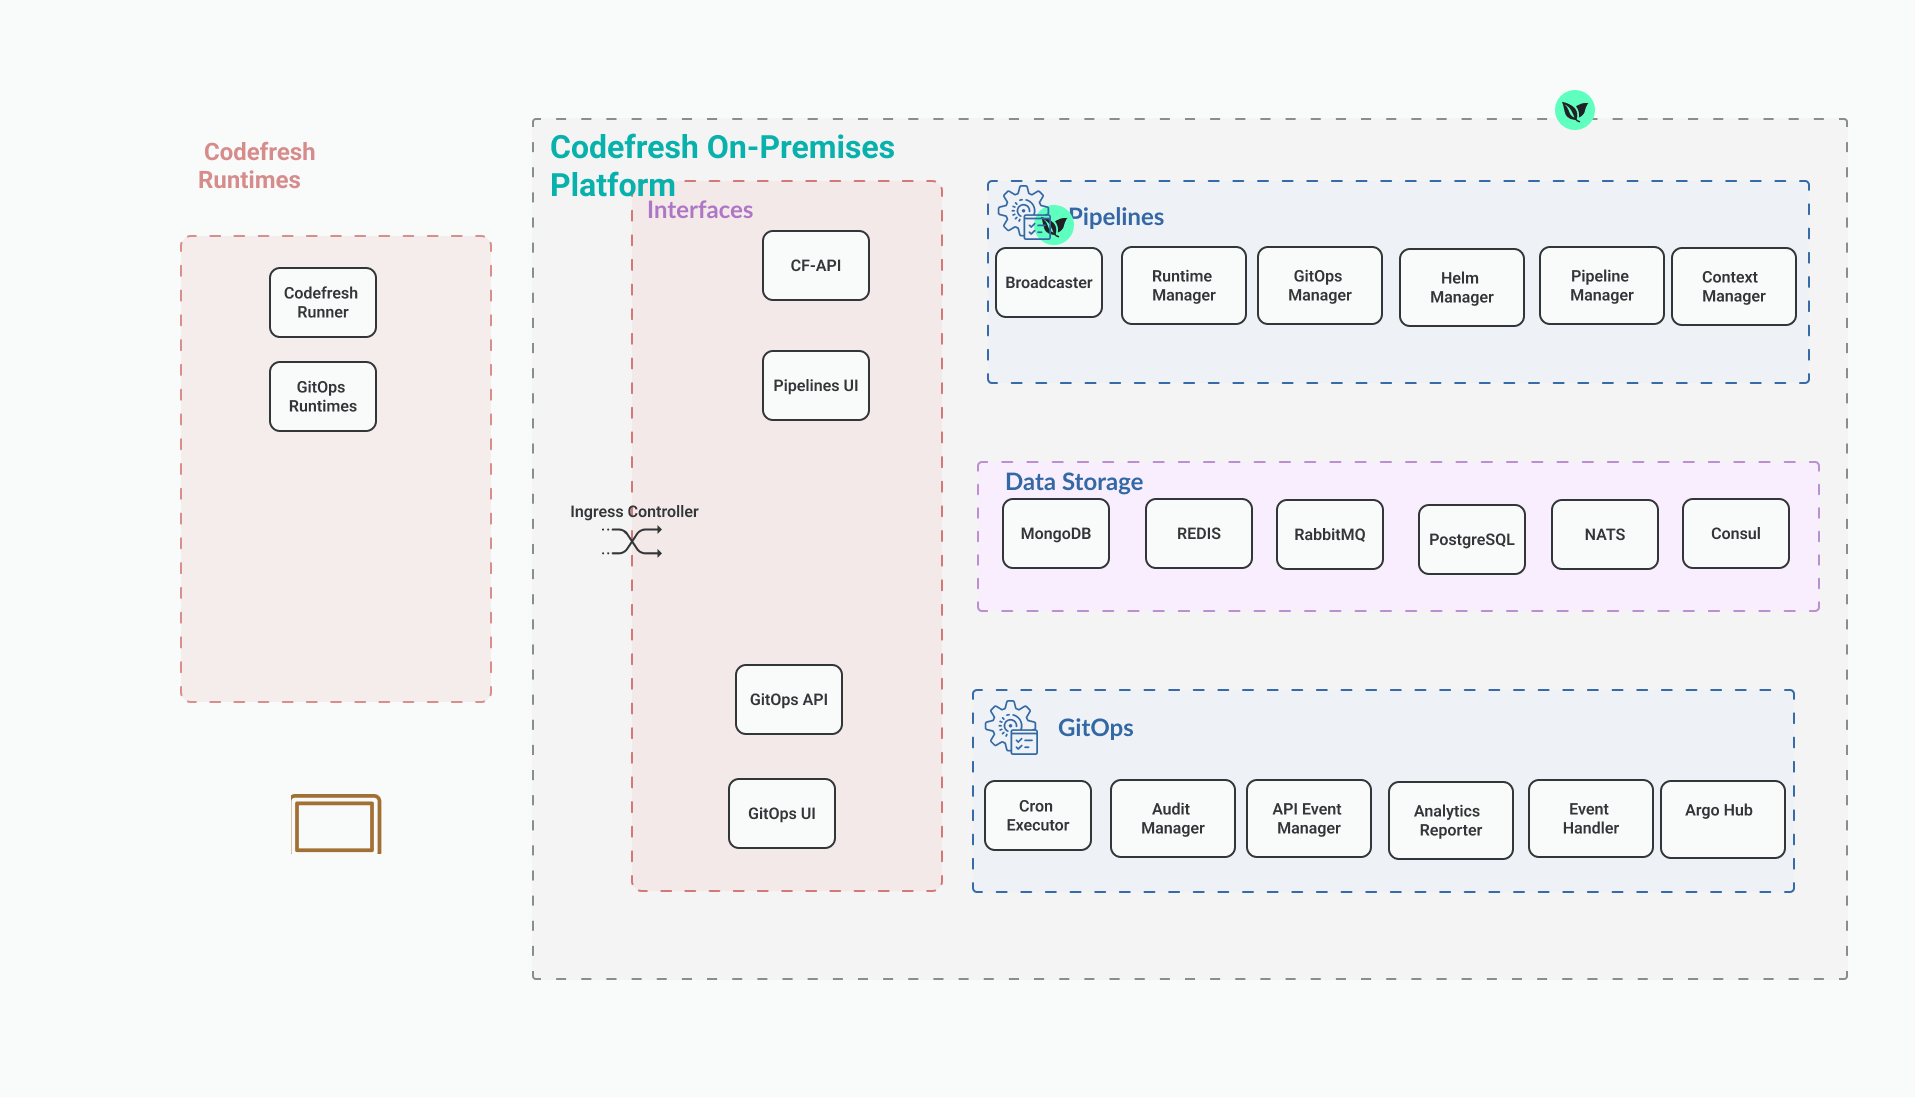
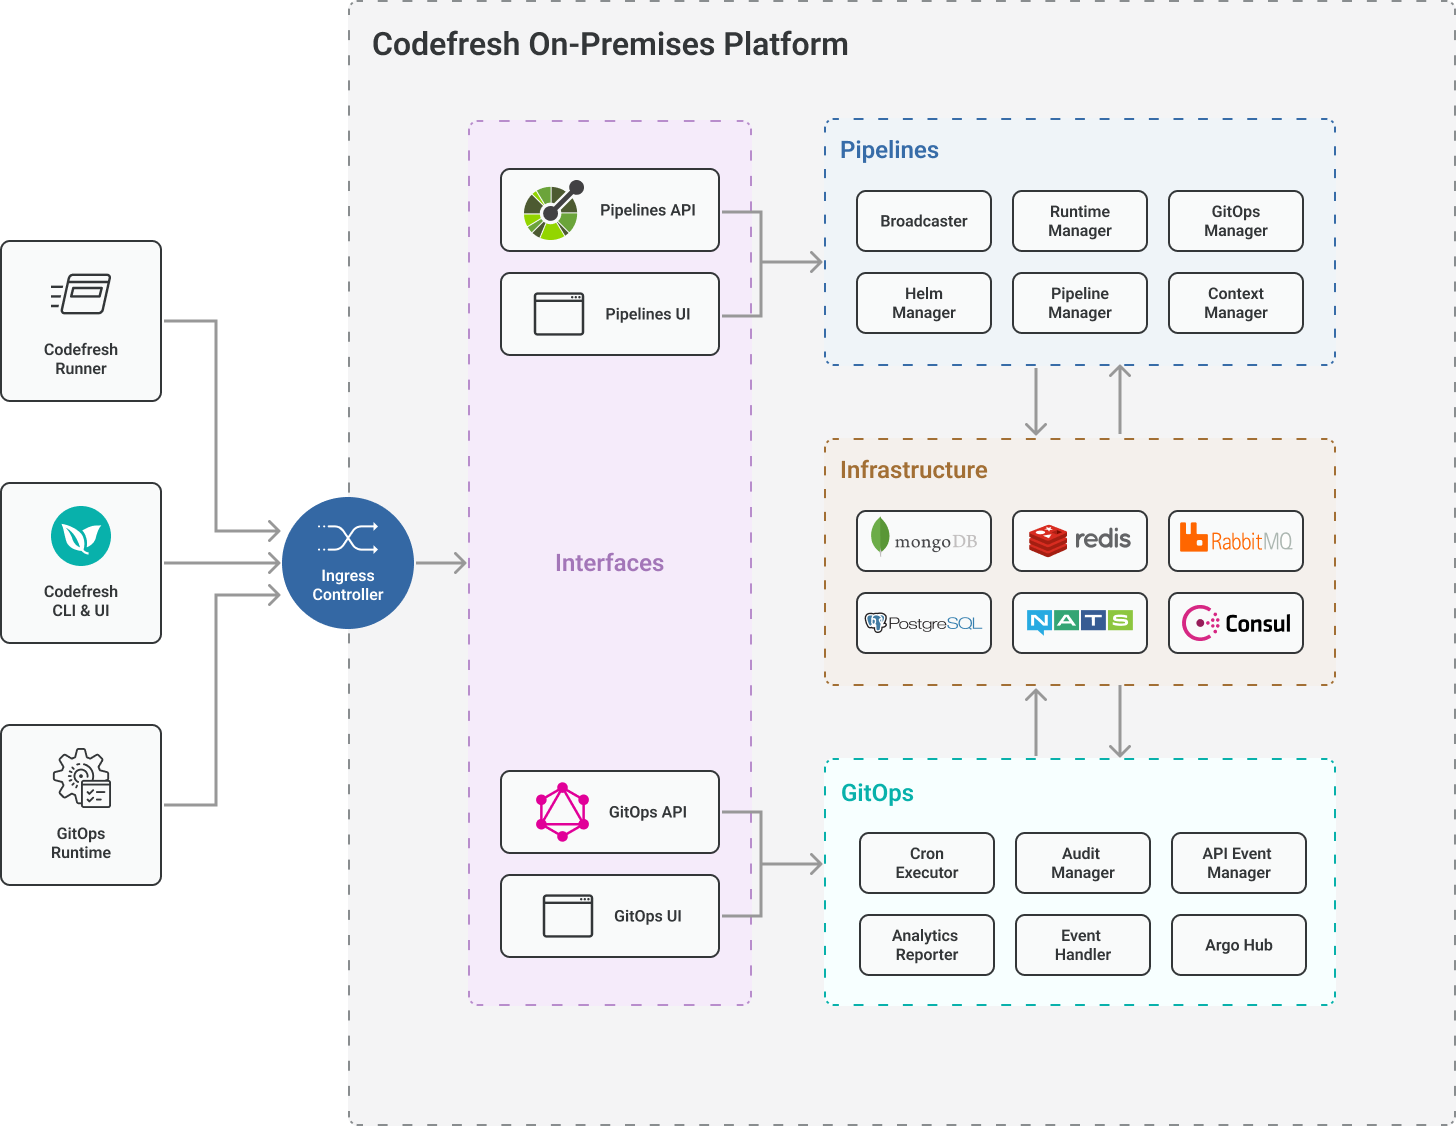
Update on-prem architecture
Updated  diagram, and content descriptions

diff --git a/_docs/installation/runtime-architecture.md b/_docs/installation/runtime-architecture.md
@@ -7,52 +7,91 @@ toc: true
 
 If you have familiarized yourself with the different installation options, here's a deep dive into the architecture and components of the different options.
 
-## Codefresh On-premises platform architecture 
-The diagram shows a high-level view of the Codefresh On-premises environment, and its core components. 
+## Codefresh On-Premises platform architecture 
+The diagram shows a high-level view of the Codefresh On-Premises environment, and its core components. 
 
 {% include
 image.html
 lightbox="true"
 file="/images/runtime/architecture/arch-on-premises.png"
 url="/images/runtime/architecture/arch-on-premises.png"
-alt="Codefresh On-premises platform architecture"
-caption="Codefresh On-premises platform architecture"
+alt="Codefresh On-Premises platform architecture"
+caption="Codefresh On-Premises platform architecture"
 max-width="100%"
 %}
 
 
 
-### Interfaces 
+### External Components
+
+
+<br>
+
+#### Codefresh Runner
+The Codefresh Runner can be installed on the same cluster as the On-Premises platform or on a remote cluster.  It provides a way to run builds, tests, and deployments within your private network or on-premises environment by making API calls to the Codefresh platform.
+
+Read more about how it works in [Runner installation behind firewalls]({{site.baseurl}}/docs/installation/behind-the-firewall/).
+
+<br>
+
+#### GitOps Runtime
+The GitOps Runtime, similar to the Codefresh Runner can be installed on the same cluster as the On-Premises platform on a remote cluster. It includes Codefresh-signed versions of the Argo Project components, Argo CD, Argo Workflows, Argo Rollouts, and Argo Events.
+The GitOps Runtime reports events in clusters and GitOps repositories through API calls to the Codefresh platform. 
+
+Read more in [GitOps Runtime architecture]({{site.baseurl}}/docs/installation/runtime-architecture/#gitops-runtime-architecture).
+
+<br>
+
+#### Codefresh UI & CLI
+Codefresh provides a web-based UI and CLI to work with the Codefresh On-Premises platform through API calls. 
+
+The UI allows users to visually manage and control CI/CD pipelines, GitOps applications and deployments, and more.
+The CLI provides a flexible option for developers to interact with the On-Premises platform.
+
+
+### On-Premises Platform Components
+
+<br>
+
+#### Ingress Controller
+
+The Codefresh On-Premises platform uses an ingress controller to handle incoming traffic. The NGINX Ingress Controller is deployed within the cluster hosting the Codefresh platform. The ingress controller serves as the entry point for requests originating from Codefresh Runners, GitOps Runtimes, and Clients, and routes them to the appropriate destinations, namely the Pipelines API/UI and the GitOps API/UI.
+
+<br>
 
 #### Pipelines API
 
-The Pipelines API serves as the primary gateway for the Codefresh Pipelines module in the On-premises platform. It handles a wide range of system functionalities, including authentication, authorization, audit logging, user management, and pipeline builds, among others. The Pipelines API utilizes a REST API interface with OpenAPI (Swagger v3) specifications.  
+The Pipelines API serves as the primary gateway for the Codefresh Pipelines module in the On-Premises platform. It handles a wide range of system functionalities, including authentication, authorization, audit logging, user management, and pipeline builds, among others. The Pipelines API utilizes a REST API interface with OpenAPI (Swagger v3) specifications.  
+
+<br>
 
 #### Pipelines UI
 The Pipelines UI acts as a static file server that hosts and delivers all the user interface pages for Codefresh Pipelines. It provides visualization of pipelines, builds, third-party integrations and more.
 
-
+<br>
 
 #### GitOps API
-The GitOps API serves as the primary gateway for the Codefresh GitOps module in the On-premises platform. It interfaces between Codefresh GitOps, Git, and Argo CD, to sync 
+The GitOps API serves as the primary gateway for the Codefresh GitOps module in the On-Premises platform. It interfaces between Codefresh GitOps, Git, and Argo CD, to sync 
 It utilizes a GraphQL interface to provide a user interface
 
+<br>
+
 #### GitOps UI
-The GitOps UI API provides a unified, enterprise-wide view of deployments, 
-The UI p (runtimes, clusters, and applications), and CI/CD operations (Delivery Pipelines, workflows, and deployments) in the same location.  
-The Codefresh CLI includes commands to install hybrid runtimes, add external clusters, and manage runtimes and clusters.
+The GitOps UI provides a unified, enterprise-wide view of deployments, Runtimes, clusters, and applications in the same location.  
 
-### Codefresh Pipelines
+<br>
 
-The Pipelines module comprises a set of microservices for managing Codefresh pipelines.
-The Codefresh Runner and clients forward incoming requests to the Codefresh API, which in turn forwards them to the different Pipeline microservices.
+#### Pipelines
+
+The Pipelines module comprises a set of microservices for managing Codefresh pipelines in the On-Premises platform.
+The Codefresh Runner and clients (UI/CLI) forward incoming requests to the Pipelines API, which in turn forwards them to the different Pipeline microservices.
 
 
 * Broadcaster
   Forwards requests from the Codefresh Runner and client to the Codefresh API when Firebase is not used.
 
 * Runtime Manager 
-  Manages the runtime environments for the Codefresh Runner in the Codefresh on-premises platform.
+  Manages the runtime environments for the Codefresh Runner in the Codefresh On-Premises platform.
 
 * Context Manager 
   Stores information on Pipeline Integrations created in Codefresh.
@@ -66,9 +105,9 @@ The Codefresh Runner and clients forward incoming requests to the Codefresh API,
 * GitOps Manager 
   Deprecated. Stored information for populating the GitOps Dashboard in Codefresh Pipelines. The dashboard is now populated by Codefresh GitOps. 
 
+<br>
 
-
-### Codefresh GitOps
+#### GitOps
 
 The GitOps module comprises the microservices for Codefresh and Argo users to consume and share Argo Workflow templates.
 
@@ -90,7 +129,9 @@ The GitOps module comprises the microservices for Codefresh and Argo users to co
 * Argo Hub
   Interfaces with the Argo Hub platform for working with pre-built Argo Workflow templates. Visit https://codefresh.io/argohub/ for more details.
 
-### On-premises infrastructure
+<br>
+
+#### Infrastructure
 Codefresh stores entity, configuration, and integration data for Codefresh Pipelines and Codefresh GitOps in different databases.
 Each microservice within the Codefresh Pipeline and GitOps modules has its own dedicated database, which is independent from the databases used by other microservices. Communication between each microservice and its respective database is exclusive.
 
@@ -116,10 +157,6 @@ Each microservice within the Codefresh Pipeline and GitOps modules has its own d
 
 * Consul
   Stores data for legacy builder and windows nodes.
-
-### Ingress Controller
-
-The Codefresh On-premises platform utilizes an ingress controller to handle incoming traffic. The NGINX Ingress Controller is deployed within the cluster hosting the Codefresh platform. The ingress controller serves as the entry point for requests originating from Codefresh Runners, GitOps Runtimes, and Clients, and routes them to the appropriate destinations, namely the Pipelines API/UI and the GitOps API/UI.
 
 
 ## Codefresh GitOps platform architecture

diff --git a/_docs/installation/installation-options.md b/_docs/installation/installation-options.md
@@ -24,10 +24,10 @@ The Codefresh platform supports three different installation options, all compli
   See [Hybrid Runner](#hybrid-runner).
   
 
-* **On-premises**  
-  On-premises installation is for customers who want full control over their environments. Both the UI and the builds run on the Kubernetes cluster in an environment fully managed by you as our customer.  
+* **On-Premises**  
+  On-Premises installation is for customers who want full control over their environments. Both the UI and the builds run on the Kubernetes cluster in an environment fully managed by you as our customer.  
 
-  While Codefresh can still help with maintenance of the on-premises platform, we would recommend the Hybrid Runner as it combines flexibility without compromising on security.  
+  While Codefresh can still help with maintenance of the On-Premises platform, we would recommend the Hybrid Runner as it combines flexibility without compromising on security.  
   See [On-premises](#on-premises).
 
 
